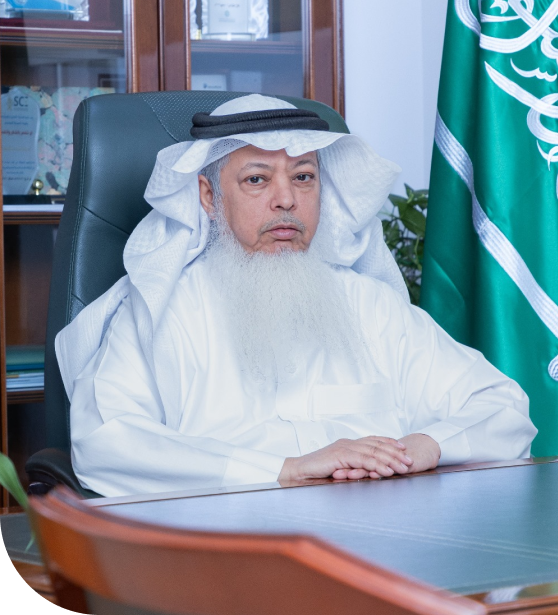
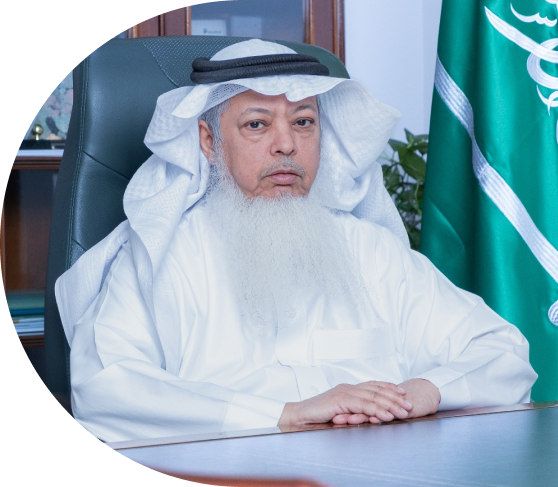
SH-3832 - Add accreditation number field

diff --git a/src/app/components/about-us/about-us.component.html b/src/app/components/about-us/about-us.component.html
@@ -10,32 +10,59 @@
             Saudi Arabia and in the Western Region and close to Makkah. The Production capacity is 2 million
             tonnes of cement annually that will meet the needs of our customers.
         </div>
-        <div class="row h-100 align-items-center mt-auto">
-            <div class="col-lg-6">
-                <div class="ceo-image">
-                    <img src="/about-us/ceo.png" class="img-fluid" alt="">
-                    <div class="ceo-badge p-2">
-                        <h4 class="fw-bold">MOHAMMAD ALMATRAFI</h4>
-                        <h5 class="mb-0">CEO</h5>
+        <div class="row">
+            <div class="col-12">
+                <div class="pe-xxl-5">
+                    <div class="row justify-content-xxl-end justify-content-center">
+                        <div class="col-lg-6">
+                            <div class="row justify-content-center">
+                                <div class="col-xxl-9">
+                                    <h1 class="my-3 text-xxl-start text-center text-primary">MESSAGE FROM THE <span class="fw-bold">CEO</span></h1>
+
+                                </div>
+                            </div>
+                        </div>
                     </div>
                 </div>
             </div>
-            <div class="col-lg-6">
-                <div class="row justify-content-center">
-                    <div class="col-md-9">
-                        <h2 class="my-3">MESSAGE FROM THE <span class="text-primary fw-bold">CEO</span></h2>
-                        <p class="mb-5">
-                            The United Cement Industrial Company (UCIC) is honored to have the support of the Government of the
-                            Custodian of the Two Holy Mosques, having secured a concession building permit in Al Lith city to
-                            manufacture various types of cement that meet global standards through efficient fuel customization.
-                            Committed to our national duty, UCIC prioritizes Saudi citizens in all aspects of our operations,
-                            with nearly 100% of leadership positions held by qualified Saudi staff. Since our establishment in
-                            2013, we have achieved platinum status and emphasize the importance of continuous training at local
-                            and global specialized centers. Aligned with Vision 2030, we focus on efficiency and competitiveness
-                            in our technical and administrative operations, striving to be a vital contributor to the Kingdom's
-                            development and prosperity.
-                        </p>
+            <div class="col-12">
+                <div class="bg-light-pink py-4 px-5 ps-xxl-0">
+                    <div class="row">
+                        <div class="col-lg-6 position-relative">
+                            <div class="ceo-image">
+                                <img src="/about-us/ceo.png" class="img-fluid" alt="">
+                                <div class="ceo-badge bg-primary text-white rounded-pill px-3 py-2">
+                                    <p class=" mb-0">Mohammad Almatrafi</p>
+                                </div>
+                            </div>
+                        </div>
+                        <div class="col-lg-6">
+                            <div class="row justify-content-center">
+                                <div class="col-xxl-9">
+                                    <p class="mb-0">
+                                        The United Cement Industrial Company (UCIC) is honored to have the support of
+                                        the Government of the
+                                        Custodian of the Two Holy Mosques, having secured a concession building permit
+                                        in Al Lith city to
+                                        manufacture various types of cement that meet global standards through efficient
+                                        fuel customization.
+                                        Committed to our national duty, UCIC prioritizes Saudi citizens in all aspects
+                                        of our operations,
+                                        with nearly 100% of leadership positions held by qualified Saudi staff. Since
+                                        our establishment in
+                                        2013, we have achieved platinum status and emphasize the importance of
+                                        continuous training at local
+                                        and global specialized centers. Aligned with Vision 2030, we focus on efficiency
+                                        and competitiveness
+                                        in our technical and administrative operations, striving to be a vital
+                                        contributor to the Kingdom's
+                                        development and prosperity.
+                                    </p>
+                                </div>
+                            </div>
+                        </div>
                     </div>
+
                 </div>
             </div>
         </div>

diff --git a/src/app/components/about-us/about-us.component.scss b/src/app/components/about-us/about-us.component.scss
@@ -22,7 +22,9 @@
 }
 
 .ceo-image {
-    position: relative;
+    position: absolute;
+    top: -103px;
+    left: -25px;
 
     img {
 
@@ -30,22 +32,12 @@
     }
 
     .ceo-badge {
-        border: 8px solid white;
-        border-radius: 11px;
-        background-color: #D1D1D1;
-        text-align: center;
-        width: 200px;
-        color: #414141;
         position: absolute;
-        bottom: 40px;
-        right: 0;
+        bottom: 11px;
+        left: 0;
 
-        h4 {
+        p {
             font-size: 24px;
-        }
-
-        h5 {
-            font-size: 20px;
         }
     }
 
@@ -72,24 +64,37 @@
     color: #747474
 }
 
+.bg-light-pink {
+    background-color: rgba(245, 241, 255, 1);
+    border-radius: 50rem;
+}
+
+@media (max-width: 1500px) {
+    .bg-light-pink {
+        border-radius: 3rem;
+    }
+
+    .ceo-image {
+        position: relative;
+        top: 0px;
+        left: 0px;
+    }
+}
+
 @media (max-width: 992px) {
     .ceo-image {
 
         img {
 
-            padding-right: 5rem;
+            padding-right: 0rem;
         }
 
         .ceo-badge {
-            width: 163px;
 
-            h4 {
+            p {
                 font-size: 18px;
             }
 
-            h5 {
-                font-size: 16px;
-            }
         }
 
     }

diff --git a/src/app/components/landing-page/landing-page.component.html b/src/app/components/landing-page/landing-page.component.html
@@ -371,7 +371,7 @@
                 <p>Strategy of united cement based in employement on the serious investment in the national manpower and through a number of foundations and programs including</p>
                 <button class="btn btn-primary rounded-pill px-4 py-2 fs-small mb-4"> READ MORE</button>
 
-                <img src="/landing-page/workers.png" class="img-fluid mb-3" alt="">
+                <img src="/landing-page/training.png" class="img-fluid mb-3" alt="">
             </div>
             <div class="col-md-6">
                 <div class="border-3 border-primary border-start card-shadow p-4 rounded-2 mb-3">

diff --git a/src/app/components/social-responsibilities/social-responsibilities.component.html b/src/app/components/social-responsibilities/social-responsibilities.component.html
@@ -8,7 +8,7 @@
         <p class="text-center text-gray fs-5 mb-5">Seeking company strives to be a party contributor in all social
             initiatives that serve the region and the events, such as the continued support of education, cultural and
             social activities in the region in addition to the posts of local and international conferences.</p>
-        <img src="/social-responsibilities/close-up-people-working-office.png" class="img-fluid"
+        <img src="/social-responsibilities/saudi-meeting.png" class="img-fluid"
             alt="close-up-people-working-office">
     </div>
 </section>
